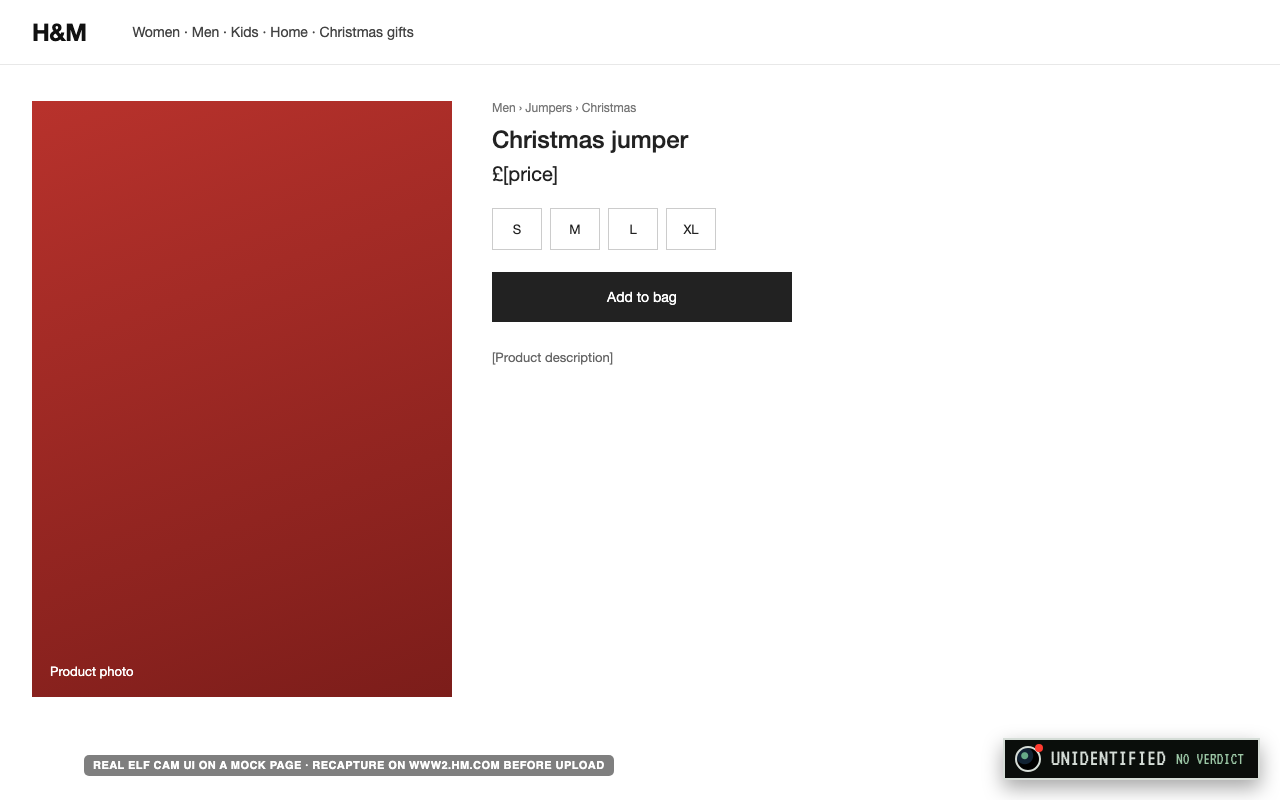
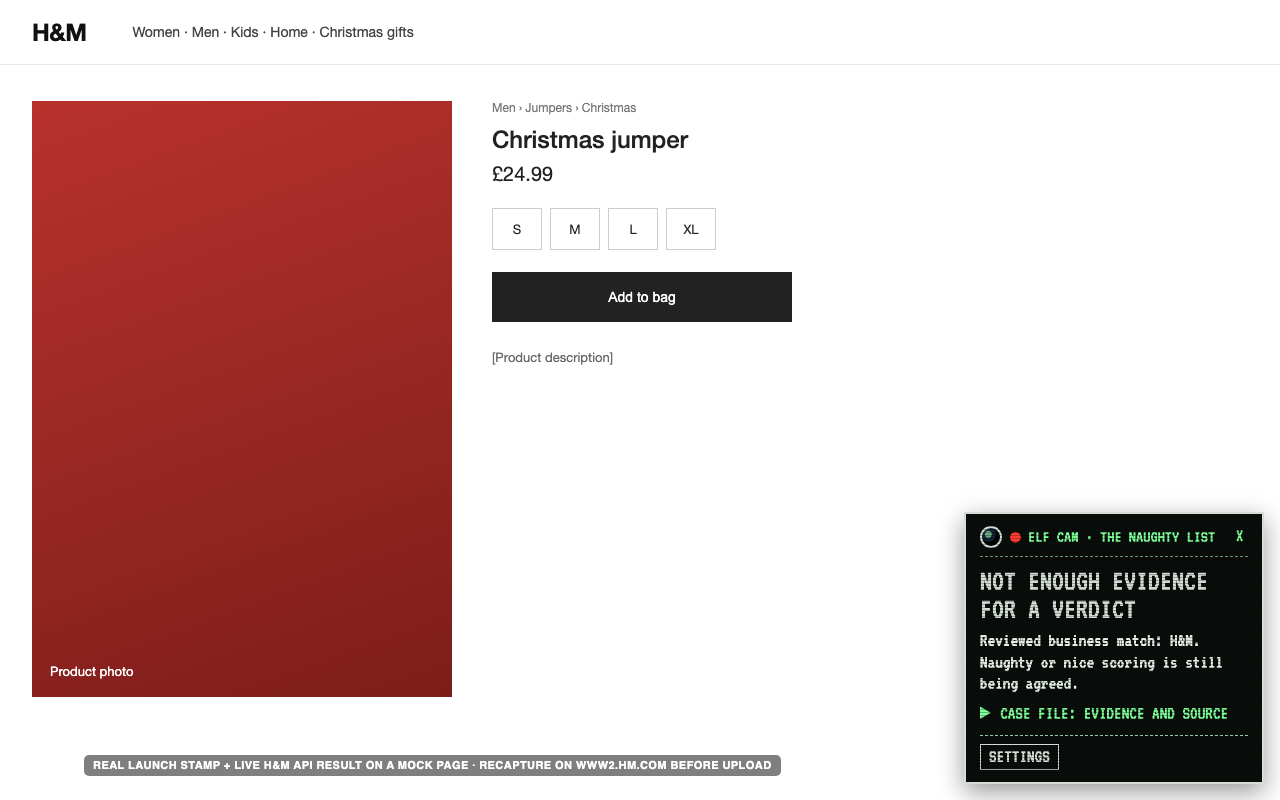
Launch assets: re-render on the merged Elf Cam stamp with H&M's live API result
Lawrence's Elf Cam restyle of Ben's stamp is merged (PR #6) and Ben's PR #8 deployed
a reviewed H&M identity with B Corp status unknown. Store screenshots 1-3, the site's
product shots, copy, storyboard and captions now show 'Not enough evidence for a
verdict · Reviewed business match: H&M'. Dropped all 'not certified'/'not listed'
H&M wording; hm-registry is superseded.

diff --git a/publishing/launch/src/elfcam/productpage.html b/publishing/launch/src/elfcam/productpage.html
@@ -1,7 +1,8 @@
 <!doctype html><html><head><meta charset="utf-8">
-<!-- Render harness: a plain H&M-style product page that runs Lawrence's real Elf Cam files
-     (extension/verdict.js + content.js from the ref passed to render-elfcam.sh) with stubbed extension APIs.
-     The assessment fed in is Ben's assess() output for H&M (hm-registry) plus storeType single_brand. -->
+<!-- Render harness: a plain H&M-style product page running the real launch stamp
+     (extension/shared.js + content.js from the ref passed to render-elfcam.sh) with stubbed extension APIs.
+     The assessment is the live API response for www2.hm.com (hm-assessment.json, fetched 4 Nov 2026). -->
+<script type="application/ld+json">{"@context":"https://schema.org","@type":"Product","name":"Christmas jumper","offers":{"@type":"Offer","price":"24.99","priceCurrency":"GBP"}}</script>
 <style>
 body{margin:0;background:#fff;color:#222;font-family:-apple-system,"Helvetica Neue",Arial,sans-serif}
 .bar{height:64px;border-bottom:1px solid #e8e8e8;display:flex;align-items:center;padding:0 32px;gap:28px;font-size:14px;color:#444}
@@ -12,30 +13,27 @@ body{margin:0;background:#fff;color:#222;font-family:-apple-system,"Helvetica Ne
 h2{font-weight:500;font-size:24px;margin:0 0 8px}
 .price{font-size:20px;margin:6px 0 22px}
 .sz{display:flex;gap:8px;margin-bottom:22px}.sz span{width:48px;height:40px;border:1px solid #ccc;display:grid;place-items:center;font-size:13px}
-.add{width:300px;height:50px;background:#222;color:#fff;display:grid;place-items:center;font-size:14px}
+.add{width:300px;height:50px;background:#222;color:#fff;border:0;font-size:14px}
 .desc{margin-top:26px;font-size:13px;color:#666;line-height:1.6;max-width:360px}
+.label{position:fixed;left:84px;bottom:24px;font:700 11px -apple-system,sans-serif;color:#fff;background:rgba(0,0,0,.5);padding:4px 9px;border-radius:5px;letter-spacing:.04em}
 </style></head><body>
-<div style="position:fixed;left:84px;bottom:24px;z-index:1;font:700 11px -apple-system,sans-serif;color:#fff;background:rgba(0,0,0,.5);padding:4px 9px;border-radius:5px;letter-spacing:.04em">REAL ELF CAM UI ON A MOCK PAGE · RECAPTURE ON WWW2.HM.COM BEFORE UPLOAD</div>
+<div class="label">REAL LAUNCH STAMP + LIVE H&amp;M API RESULT ON A MOCK PAGE · RECAPTURE ON WWW2.HM.COM BEFORE UPLOAD</div>
 <div class="bar"><b>H&amp;M</b> Women · Men · Kids · Home · Christmas gifts</div>
 <div class="page">
   <div class="img">Product photo</div>
-  <div><div class="crumb">Men › Jumpers › Christmas</div><h2>Christmas jumper</h2><div class="price">£[price]</div>
-  <div class="sz"><span>S</span><span>M</span><span>L</span><span>XL</span></div><div class="add">Add to bag</div>
+  <div><div class="crumb">Men › Jumpers › Christmas</div><h2>Christmas jumper</h2><div class="price" itemprop="price" content="24.99">£24.99</div>
+  <div class="sz"><span>S</span><span>M</span><span>L</span><span>XL</span></div><button class="add">Add to bag</button>
   <div class="desc">[Product description]</div></div>
 </div>
 <script>
-const q=new URLSearchParams(location.search), mode=q.get('mode')||'intro';
-const HM={schemaVersion:'1',input:{domain:location.hostname},
-  match:{status:'matched',method:'reviewed_domain',domain:location.hostname,storeType:'single_brand',evidence:{sourceUrl:'https://hmgroup.com/brands/',checkedAt:'2026-11-04'}},
-  company:{id:'hm',name:'H&M',identifiers:[]},
-  criteria:{bCorp:{status:'verified',certified:false,reason:null,source:{name:'B Lab',url:'https://www.bcorporation.net/en-us/find-a-b-corp/?query=H%26M'},checkedAt:'2026-11-04',validUntil:'2026-12-04'}},
-  scoring:{status:'deferred',total:null,verdict:null}};
-window.chrome={runtime:{lastError:null,getURL:p=>'/ext/'+p,sendMessage:(m,cb)=>setTimeout(()=>cb({ok:true,data:HM}),10)},
-  storage:{local:{get:async k=>mode==='intro'?{}:{[k]:(d=>`${d.getFullYear()}-${d.getMonth()+1}-${d.getDate()}`)(new Date())},set:async()=>{}}}};
+const mode=new URLSearchParams(location.search).get('mode')||'intro';
+const today=new Date().toDateString();
+window.chrome={runtime:{getURL:p=>'/ext/'+p,sendMessage:async m=>m.type==='assess-domain'?{assessment:await (await fetch('/hm-assessment.json')).json()}:{}},
+  storage:{local:{get:async k=>(typeof k==='string'&&k.startsWith('elfCamIntro:')&&mode!=='intro')?{[k]:today}:{},set:async()=>{}},onChanged:{addListener(){}}}};
 </script>
-<script src="/ext/verdict.js"></script>
+<script src="/ext/shared.js"></script>
 <script src="/ext/content.render.js"></script>
 <script>
-if(mode==='file') setTimeout(()=>{const h=document.querySelector('naughty-list-elf-cam');h&&h.shadowRoot.querySelector('.badge').click()},600);
+if(mode==='file') setTimeout(()=>{const d=document.getElementById('naughty-list-stamp')?.shadowRoot?.querySelector('details');if(d)d.open=true},1600);
 </script>
 </body></html>

diff --git a/publishing/launch/site/home/naughty-list-home.html b/publishing/launch/site/home/naughty-list-home.html
@@ -47,7 +47,7 @@ a:focus-visible,button:focus-visible,summary:focus-visible{outline:3px solid var
 
 /* the product: the one place Elf Cam lives */
 .product{position:relative;transform:rotate(1.5deg)}
-.product img{display:block;width:100%;max-width:440px;height:auto;margin-left:auto;border-radius:8px;box-shadow:0 22px 50px rgba(0,25,10,.45)}
+.product img{display:block;width:100%;max-width:340px;height:auto;margin-left:auto;border-radius:8px;box-shadow:0 22px 50px rgba(0,25,10,.45)}
 .product .tag{position:absolute;top:-16px;left:6%;font:22px/1 var(--f-cam);text-transform:uppercase;color:var(--cam-ph);background:var(--cam-bg);padding:6px 12px;border:2px solid var(--cam-ph)}
 .product .tag b{color:var(--cam-rec);font-weight:400}
 
@@ -169,7 +169,7 @@ footer b{display:block;font:24px var(--f-display);margin-bottom:4px}
       </div>
       <div class="product">
         <span class="tag"><b>●</b> Elf Cam</span>
-        <img src="elfcam-casefile.png" alt="The Elf Cam case file on an H&amp;M product page: subject H&amp;M, source B Lab, checked 4 Nov 2026, verdict pending">
+        <img src="elfcam-casefile.png" alt="The Elf Cam stamp on an H&amp;M product page: not enough evidence for a verdict, reviewed business match H&amp;M, with the case file open">
       </div>
     </div>
   </div>
@@ -203,8 +203,8 @@ footer b{display:block;font:24px var(--f-display);margin-bottom:4px}
     <p class="scrawl kicker">It's elf-explanatory.</p>
     <ol class="steps">
       <li><h3>Add the free extension</h3><p>One click for Chrome or Firefox.</p></li>
-      <li><h3>Shop as usual</h3><p>On a shop we've checked, Elf Cam appears for a few seconds, then tucks into a small badge in the corner.</p></li>
-      <li><h3>Open the case file</h3><p>Tap the badge to see what we know, where it came from and when we checked.</p></li>
+      <li><h3>Shop as usual</h3><p>On a shop we've checked, Elf Cam rolls for a few seconds, then a small stamp sits in the corner.</p></li>
+      <li><h3>Open the case file</h3><p>Open it to see what we know and where it came from.</p></li>
     </ol>
   </div>
 </section>
@@ -213,8 +213,8 @@ footer b{display:block;font:24px var(--f-display);margin-bottom:4px}
 <section class="band snowfall">
   <div class="w meet">
     <div class="badge-shot">
-      <img src="elfcam-badge.png" alt="The Elf Cam badge in the corner of a shop page" width="280" height="64">
-      <small>The badge sits in the corner and never covers the price or the basket.</small>
+      <img src="elfcam-badge.png" alt="The Elf Cam stamp in the corner of an H&amp;M page" width="310" height="280">
+      <small>The stamp sits in a corner and moves out of the way of the price and the basket.</small>
     </div>
     <div>
       <h2>Meet Elf Cam</h2>

diff --git a/publishing/launch/video/storyboard.md b/publishing/launch/video/storyboard.md
@@ -1,10 +1,10 @@
 # Demo video: script and shot list
 
-Final draft, 4 Nov 15:45. About 42 seconds. It shows only what version 1 does: Lawrence's **Elf Cam** badge (card 158, PR #6). The page goes "on camera" for a few seconds, shrinks to a corner badge, and the badge opens a case file. On H&M today it reads **"Subject unidentified · No verdict"** with the B Lab source and check date (see the wording flag in copy.md). Never say or show a naughty/nice verdict.
+Final draft, 4 Nov 15:45. About 42 seconds. It shows only what version 1 does: the **Elf Cam** launch stamp (Ben's overlay, Lawrence's styling, PR #6). The page goes "on camera" for a few seconds and the stamp sits in the corner. On H&M today it reads **"Not enough evidence for a verdict · Reviewed business match: H&M"**, from the live API. Never say or show a naughty/nice verdict, and never say H&M isn't a B Corp.
 
 **Record:** OBS, 1920×1080, 30fps, on a clean Chrome profile with only The Naughty List installed. Use the 16:9 cut for the download page and for YouTube (unlisted, as the Chrome store promo video). Then cut a 9:16 version for shorts.
 
-**Needs before filming:** Ben merges `hm-registry` (fixed so his new evidence store accepts it), Lawrence's Elf Cam (PR #6) is merged with H&M added to the manifest matches and `storeType: 'single_brand'`, and the Worker is redeployed and D1 reseeded.
+**Needs before filming:** a real Chrome install on www2.hm.com (H&M blocked Ben's automated browser, so this has to be filmed by hand). The H&M mapping is already live (PR #8).
 
 ## 16:9 cut (≈42s)
 
@@ -12,9 +12,9 @@ Final draft, 4 Nov 15:45. About 42 seconds. It shows only what version 1 does: L
 | --- | --- | --- | --- | --- |
 | 1 | 0–4s | `cards/hook-1920x1080.png` for 1s, then the H&M homepage full of Christmas gifts, scrolling slowly | "Every brand's ads are merry and bright at Christmas." | Every brand looks merry and bright at Christmas… |
 | 2 | 4–9s | Click into a Christmas jumper. **Elf Cam goes live:** viewfinder corners, REC light, timestamp, the evidence panel at the top | "But who's been naughty or nice? Elf Cam is rolling." | Elf Cam is rolling 🔴 |
-| 3 | 9–15s | Hold on the panel: "SUBJECT: H&M (BRAND) · SUBJECT UNIDENTIFIED" | "Elf Cam checks the company behind the gift. For H&M: no verdict yet." | H&M: no verdict yet |
-| 4 | 15–19s | Scroll: the intro collapses into the corner badge, "UNIDENTIFIED · NO VERDICT" | "Then it gets out of your way." | Then it shrinks to a badge |
-| 5 | 19–28s | Click the badge. The case file opens: subject, evidence, verdict pending, source, check date, scope | "Open the case file for the evidence, the source and the date. Santa hasn't agreed his rules yet, so no naughty or nice." | Source: B Lab · checked 4 Nov 2026 |
+| 3 | 9–15s | Hold on the stamp: "NOT ENOUGH EVIDENCE FOR A VERDICT · Reviewed business match: H&M" | "Elf Cam checks the company behind the gift. For H&M: no verdict yet." | H&M: no verdict yet |
+| 4 | 15–19s | Scroll: the camera brackets fade, the stamp stays in the corner clear of the basket | "Then it gets out of your way." | It never covers the basket |
+| 5 | 19–28s | Open "Case file: evidence and source": "Current B Corp certification is unknown. This describes the business, not the ethics of this individual product." | "Open the case file to see what we know and where it came from. Santa hasn't agreed his rules yet, so no naughty or nice." | Evidence first. Verdicts later. |
 | 6 | 28–34s | Twitch VOD: the team building it on stream, 2–3 quick cuts | "We built it live, in one day." | Built live on Twitch, in one day |
 | 7 | 34–40s | `cards/end-1920x1080.png` | "The Naughty List. The brands are on camera. Not you." | (on the card) |
 
@@ -28,8 +28,8 @@ Captions: `captions-16x9.srt`.
 | --- | --- | --- | --- |
 | 1 | 0–2s | `cards/shorts-hook-1080x1920.png` | Who's been naughty or nice? |
 | 2 | 2–8s | Screen recording, cropped: Elf Cam going live on the jumper page | Elf Cam is rolling 🔴 |
-| 3 | 8–13s | The panel: "SUBJECT UNIDENTIFIED" | H&M: no verdict yet |
-| 4 | 13–20s | The case file open | Evidence, source + date. Verdicts wait for Santa's rules. |
+| 3 | 8–13s | The stamp: "NOT ENOUGH EVIDENCE FOR A VERDICT" | H&M: no verdict yet |
+| 4 | 13–20s | The case file open | Evidence first. Verdicts wait for Santa's rules. |
 | 5 | 20–25s | `cards/shorts-end-1080x1920.png` | Free for Chrome & Firefox · link in bio |
 
 Captions: `captions-9x16.srt`. File naming follows the content-cloud scheme: inputs in `Day 03/Inputs`, outputs in `Day 03/Outputs` as `Day03_demo_16x9_v1.mp4` and `Day03_short_v1.mp4`.
@@ -51,7 +51,7 @@ Once the badge works, set Chrome DevTools device mode to 1280×800, then use ⋮
 4. Optional: a second H&M product page
 5. Title card: already made, `store/screenshot-5-title-card-1280x800.png`
 
-Screenshots 1–3 in `store/` are Lawrence's real Elf Cam code rendered on a mock H&M page (`src/elfcam/render-elfcam.sh`). They're labelled and must be recaptured on www2.hm.com before upload.
+Screenshots 1–3 in `store/` are the real launch stamp from `main`, fed the live H&M API result, rendered on a mock H&M page (`src/elfcam/render-elfcam.sh origin/main store`). They're labelled and must be recaptured on www2.hm.com before upload.
 
 ## Never say
 

diff --git a/publishing/launch/copy.md b/publishing/launch/copy.md
@@ -13,30 +13,28 @@ Drafted 4 November 2026 for Superthread card 156. For Samira to review. Nothing 
 
 Every `[square bracket]` is something the build still has to confirm before this goes live.
 
-**H&M result (from Ben's assessment code, 4 Nov 15:10).** H&M is now in the registry on branch `hm-registry` (commit 8aee2d1, waiting for Ben to review and merge). I searched the B Lab directory for "H&M", "H&M Group" and "Hennes & Mauritz" and found no H&M listing, so it's recorded as a hand-checked *not certified*. Ben's `assess()` returns, for `{brand: "H&M"}`, `www2.hm.com` and `www.hm.com`:
+**H&M result: live API, 4 Nov 16:15.** Ben's PR #8 added a reviewed H&M identity for hm.com, www.hm.com and www2.hm.com, and deployed it. The live `POST /v1/assessments {"domain":"www2.hm.com"}` returns:
 
-- match: **matched** (H&M)
-- B Corp: **status verified · certified: false**
-- source: B Lab directory search · checked 2026-11-04 · recheck by 2026-12-04
-- scoring: **deferred** (no total, no verdict) until card 157
+- match: **matched** (H&M), relevance **brand_shop**, eligible for a verdict
+- B Corp: **unknown** (`no_evidence`): no B Lab source, no check date
+- evidence records: none yet · scoring: **deferred** (no verdict)
 
-So the honest message today is: *H&M isn't a Certified B Corp, here's the source and date, and that's one fact, not a verdict.* Copy must never turn "not a B Corp" into "naughty" (most companies aren't B Corps).
+Ben's rule (PR #8): **missing directory evidence never becomes a negative claim.** So no copy says H&M "isn't a B Corp" or "isn't listed". My earlier `hm-registry` branch (hand-checked "not certified") is superseded and should not be merged.
 
-## What Elf Cam shows on H&M today (Lawrence's PR #6, rendered from his code)
+## What the launch stamp shows on H&M today
 
-Card 158: single-brand shops get a badge. Lawrence built it as **Elf Cam**, a North Pole CCTV parody (black, phosphor green, REC red, VT323). The strings below come from his `verdict.js` and `content.js`, fed with Ben's H&M result.
+The launch overlay is Ben's stamp restyled as **Elf Cam** by Lawrence (PR #6, merged; Ben confirmed it as the launch design). These strings come from `extension/content.js` and `shared.js` on `main`, fed with the live H&M result above.
 
-- **Intro (first visit each day, ~4s):** REC · CAM 01 · WWW2.HM.COM · SUBJECT: H&M (BRAND) · **SUBJECT UNIDENTIFIED** · "No current evidence either way. No verdict."
-- **Corner badge:** **UNIDENTIFIED** · No verdict
-- **Case file:** Subject: H&M (the company behind this store) · Evidence: "No current evidence either way. No verdict." · Verdict: "Pending. Santa hasn't agreed his rules yet" · Source: B Lab · Checked: 4 Nov 2026 · Scope: The company, not individual products · "Not being on the list isn't the same as being naughty. The elves just haven't vouched for this one yet."
-
-**⚠ Wording flag for Lawrence:** `verdict.js` treats "checked, not certified" the same as "no evidence", so H&M's evidence line reads "No current evidence either way" while the same case file shows a B Lab source and a 4 Nov check date. We did check, and H&M isn't in the directory. Suggested evidence line for that case: *"Not in the B Lab directory of Certified B Corps."* It would stay grey and Unidentified, with no verdict. The script and captions avoid quoting the evidence line until this is settled.
+- **Intro (once per shop per day, ~3.5s):** corner brackets, "● REC · CAM 01 · WWW2.HM.COM" and a clock
+- **Stamp (corner):** ELF CAM · THE NAUGHTY LIST · **NOT ENOUGH EVIDENCE FOR A VERDICT** · "Reviewed business match: H&M. Naughty or nice scoring is still being agreed."
+- **Case file (expanded):** "Current B Corp certification is unknown." · "This describes the business, not the ethics of this individual product."
+- **Settings** button; × dismisses it for the page
 
 ## Voice
 
 Ben's steer (4 Nov): it's Santa's idea, so it should feel like Christmas, not a compliance report. Playful, warm, pun-happy, and no 40 for 40 branding beyond a small "made by" credit. The puns never change the facts: we still only show B Corp status, the source and the date, and never call a brand naughty.
 
-Pun bank (use freely): Elf Cam is rolling · caught on Elf Cam · the brands are on camera, not you · case file · subject unidentified · check it twice · sleigh informed · yule know before you buy · ho ho hold on · elf-explanatory · what's in the sack · coming down the chimney · no coal · Santa's little helper · under the tree · season's readings
+Pun bank (use freely): Elf Cam is rolling · caught on Elf Cam · the brands are on camera, not you · case file · check it twice · sleigh informed · yule know before you buy · ho ho hold on · elf-explanatory · what's in the sack · coming down the chimney · no coal · Santa's little helper · under the tree · season's readings
 
 ## Chrome Web Store: today's version
 

diff --git a/publishing/launch/site/top100.md b/publishing/launch/site/top100.md
@@ -45,7 +45,7 @@
 | # | Retailer | Main UK site | In Ben's backend today |
 | --- | --- | --- | --- |
 | 32 | Primark | primark.com | — |
-| 33 | H&M | www2.hm.com | ~ hm-registry branch |
+| 33 | H&M | www2.hm.com | ✓ H&M (identity only, PR #8) |
 | 34 | Zara | zara.com | — |
 | 35 | Uniqlo | uniqlo.com | — |
 | 36 | ASOS | asos.com | ✓ ASOS |
